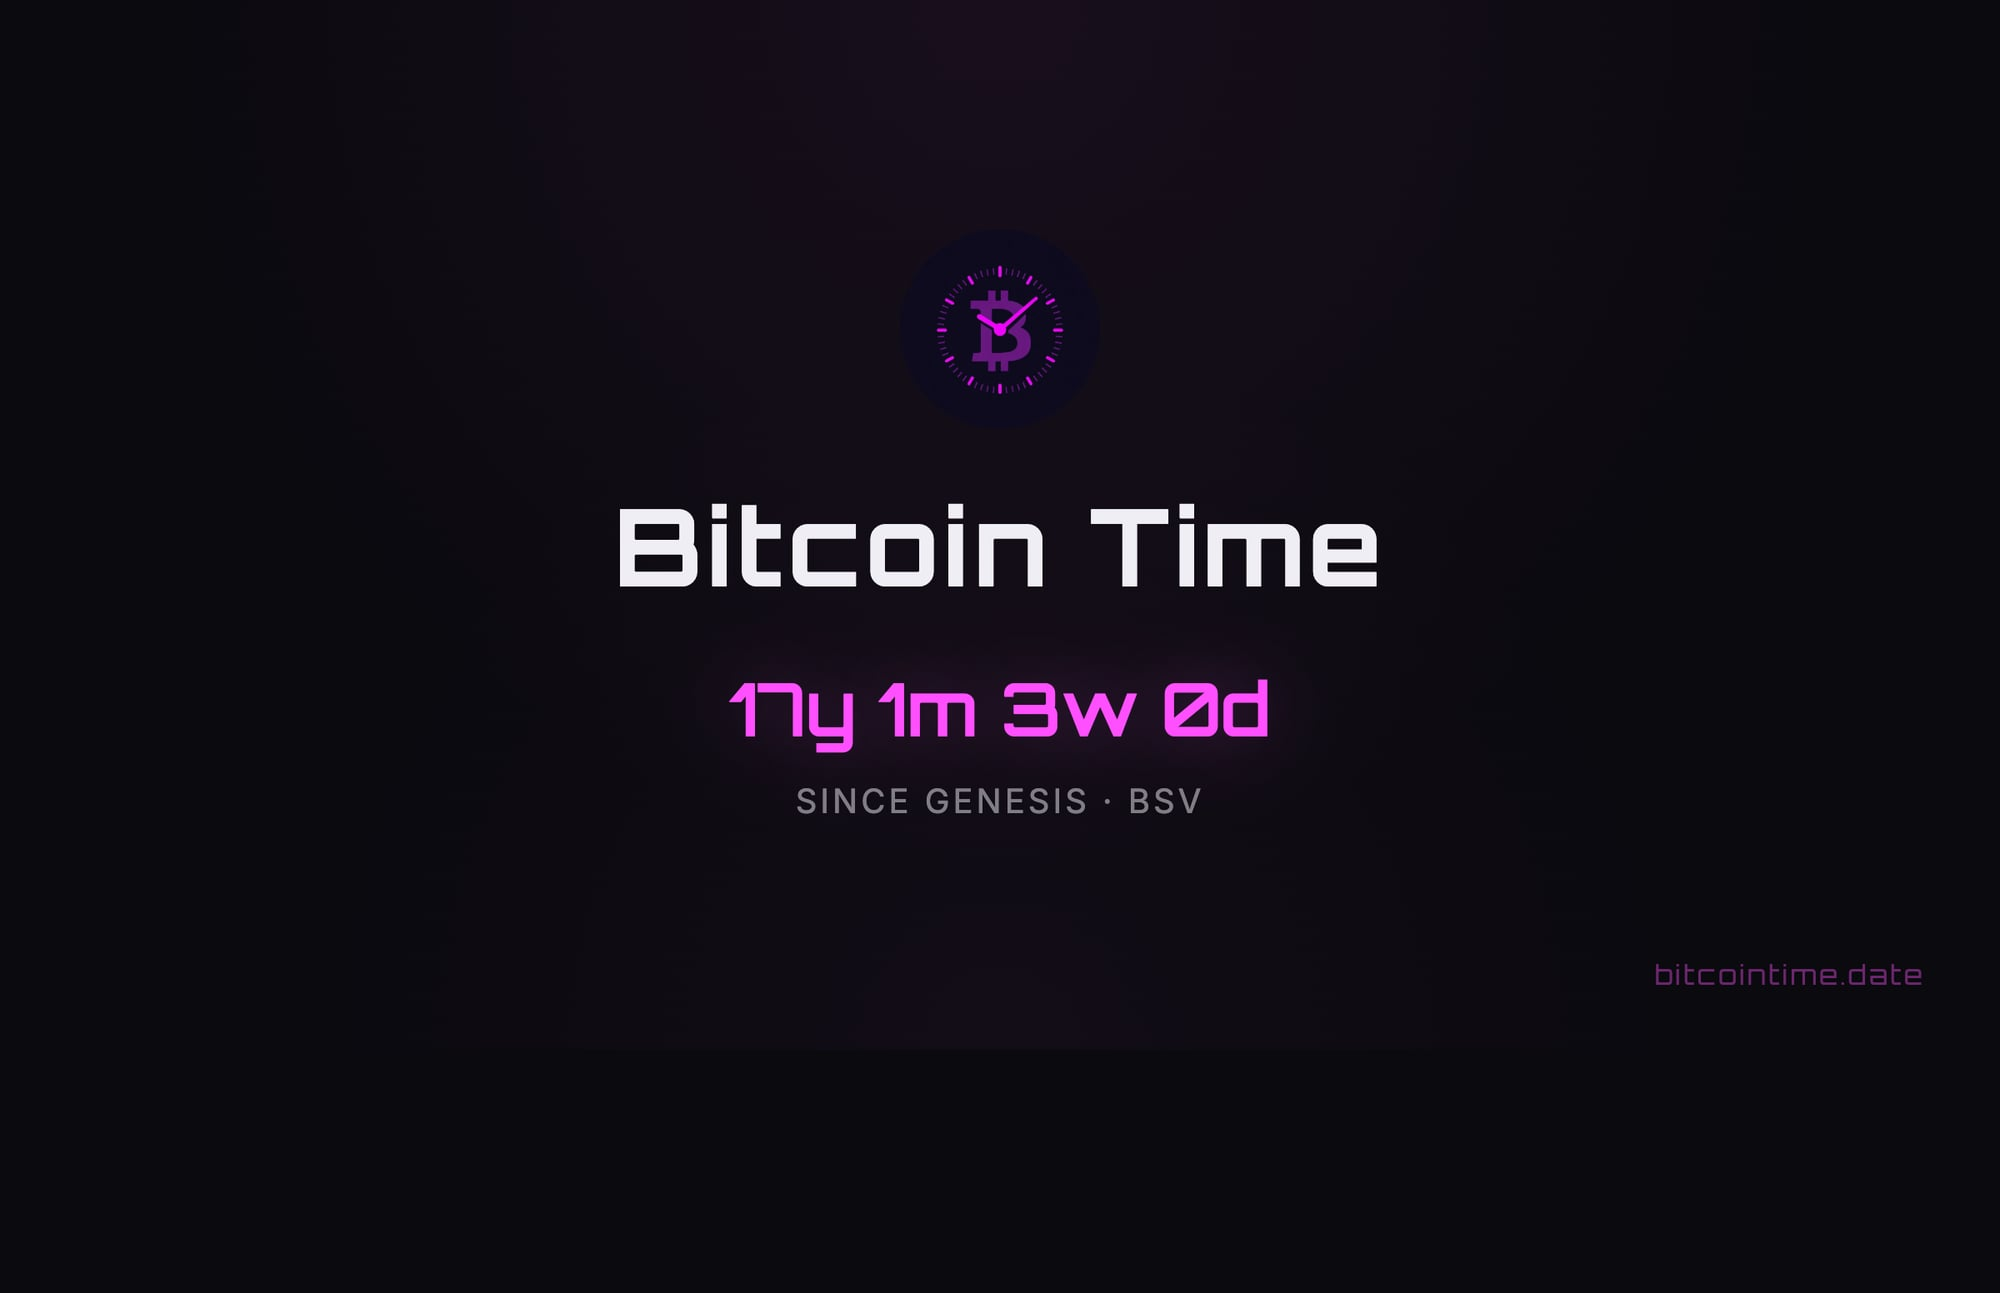
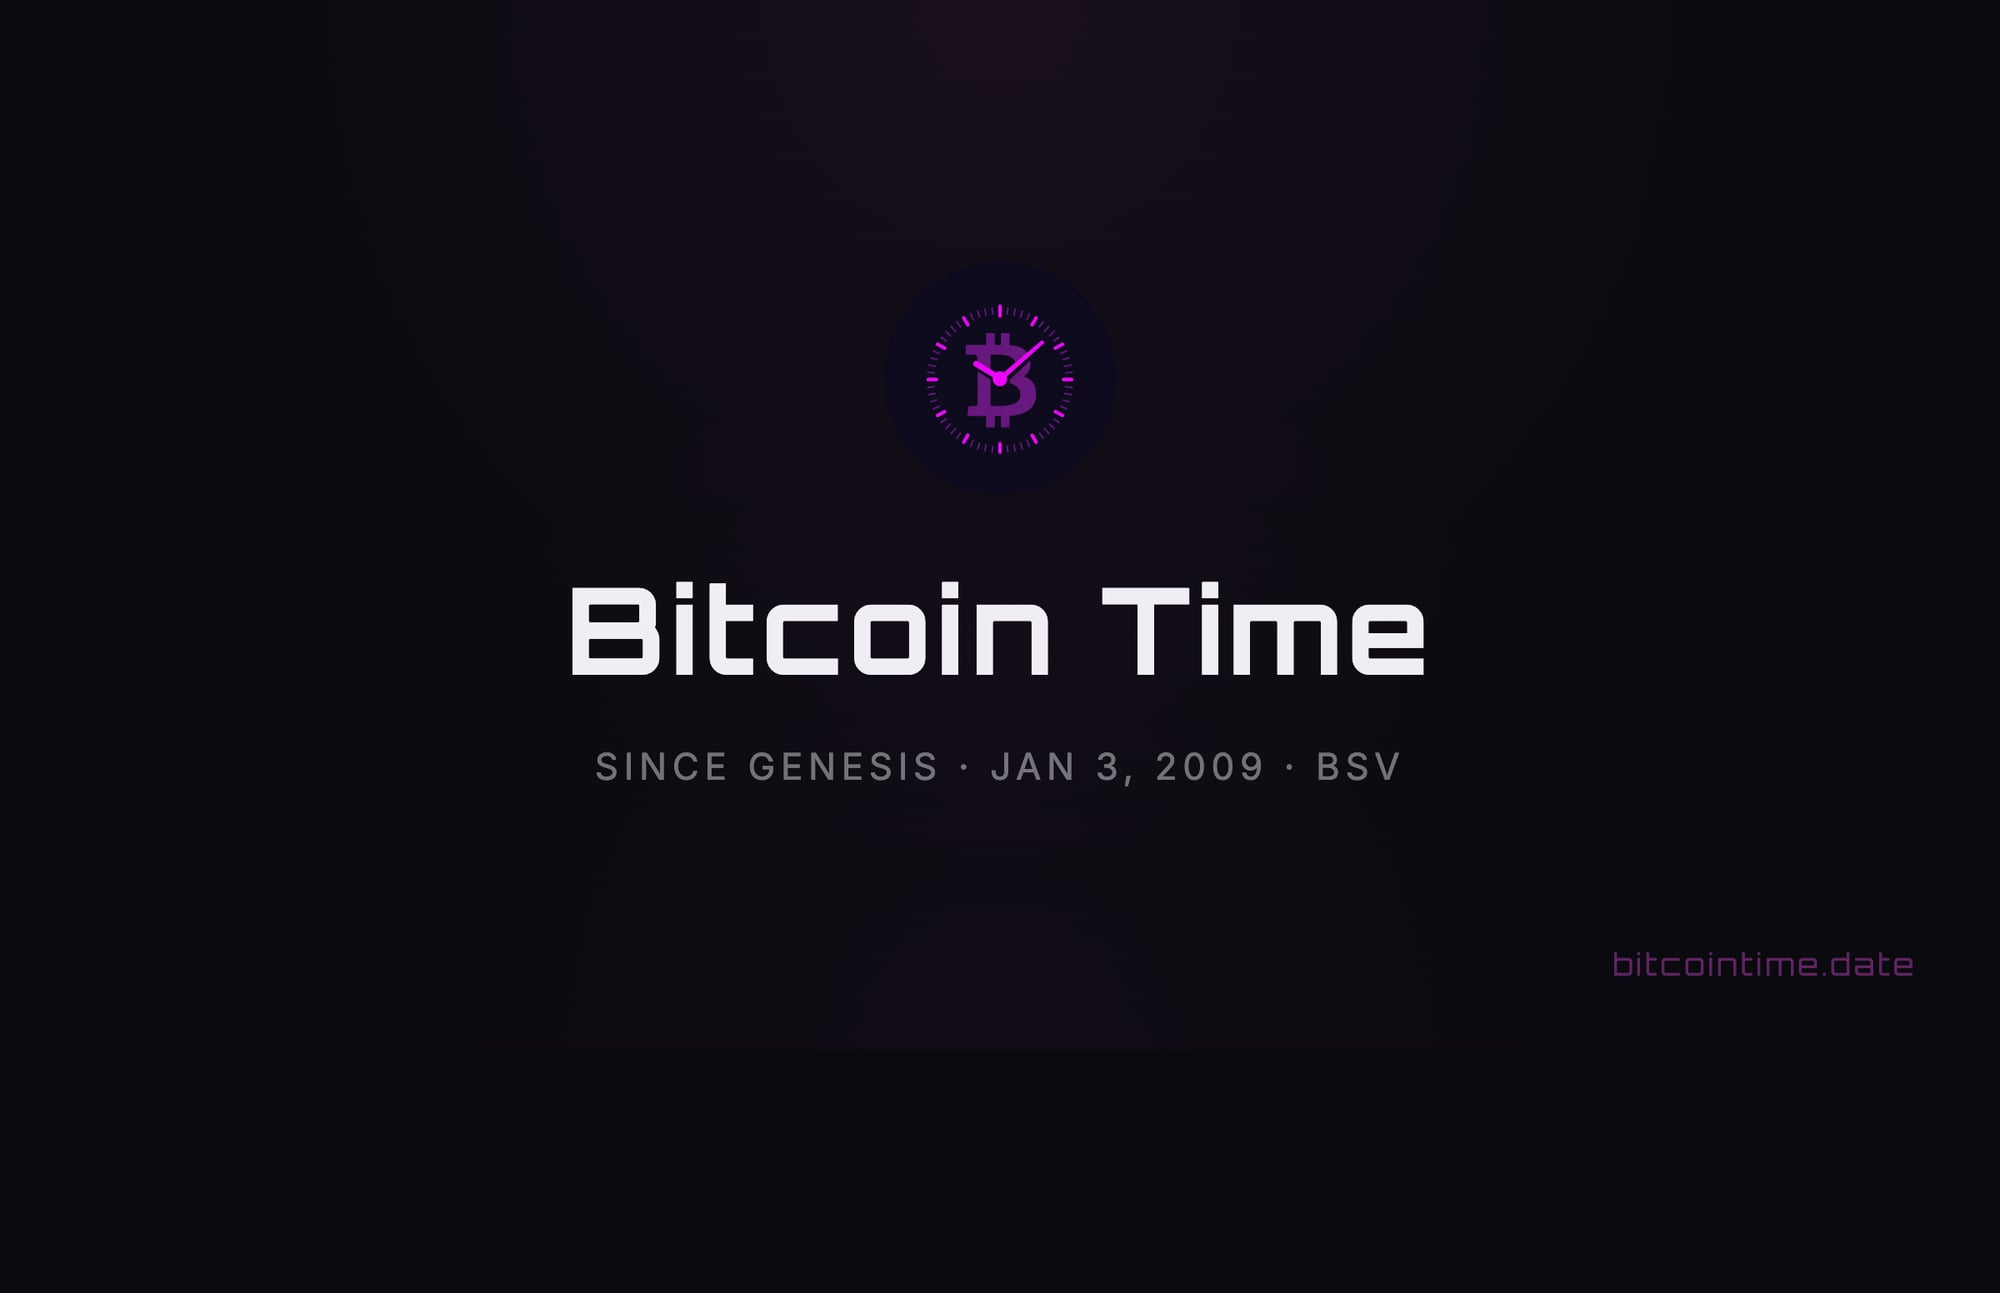
feat: default to seconds display, static OG image, reorder display modes

Changed region(s): [[0.279, 0.3712, 0.713, 0.6497], [0.465, 0.2166, 0.527, 0.3403], [0.806, 0.7425, 0.961, 0.7734]]

diff --git a/app/composables/useBitcoinTime.ts b/app/composables/useBitcoinTime.ts
@@ -6,7 +6,7 @@ export const GENESIS_TIMESTAMP = 1231006505 // Jan 3, 2009, 18:15:05 UTC
 
 export type DisplayMode = 'breakdown' | 'years' | 'months' | 'weeks' | 'days' | 'hours' | 'minutes' | 'seconds'
 
-export const DISPLAY_MODES: DisplayMode[] = ['breakdown', 'years', 'months', 'weeks', 'days', 'hours', 'minutes', 'seconds']
+export const DISPLAY_MODES: DisplayMode[] = ['seconds', 'breakdown', 'years', 'months', 'weeks', 'days', 'hours', 'minutes']
 
 export interface BitcoinTimeData {
   years: number
@@ -116,7 +116,7 @@ export function useBitcoinTime(): UseBitcoinTimeReturn {
       case 'minutes':
         return `${prefix}${minutes} minutes`
       case 'seconds':
-        return `${prefix}${seconds} seconds`
+        return `${prefix}${seconds.toLocaleString()} seconds`
       default:
         return ''
     }
